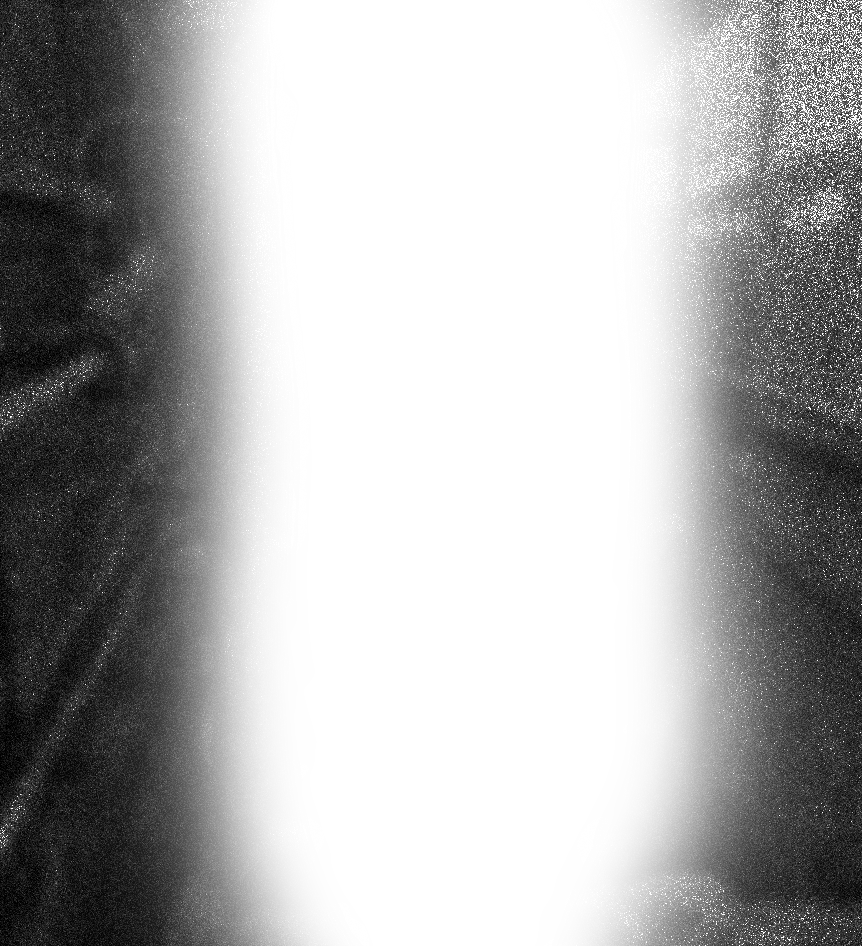
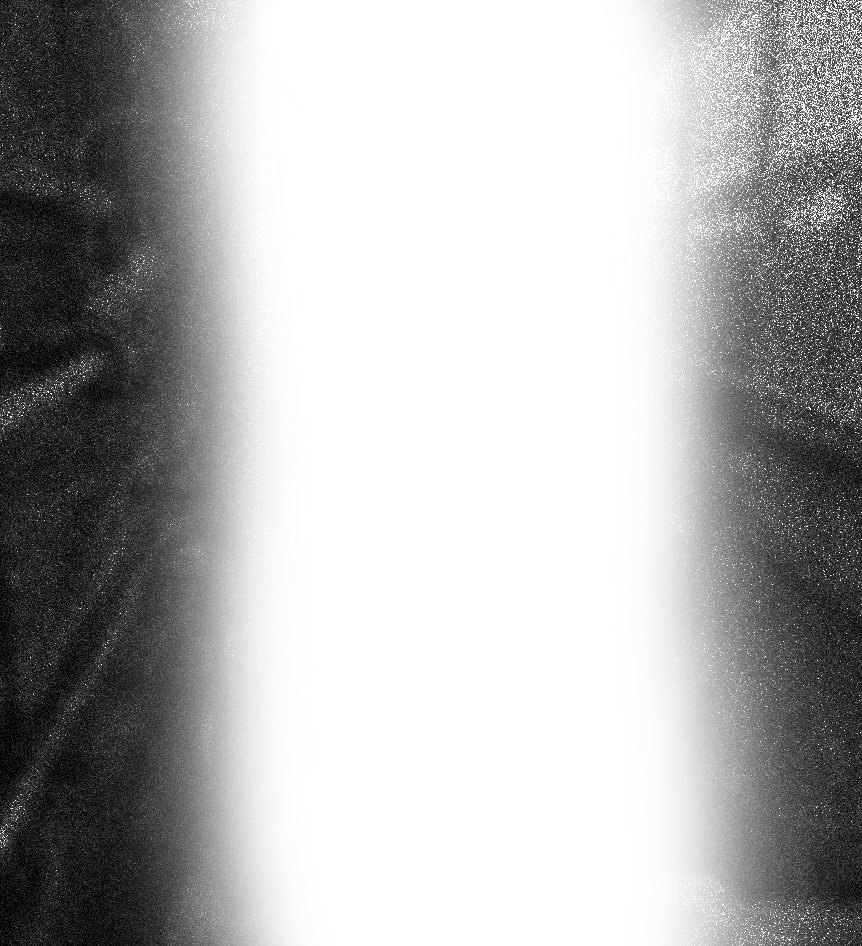
a

Changed region(s): [[0.6937, 0.7664, 0.935, 1.0], [0.2111, 0.9197, 0.3619, 1.0]]

diff --git a/deathdriveDIGI .html b/deathdriveDIGI .html
@@ -26,7 +26,7 @@
             position:absolute; 
             z-index:3; 
             top:12;
-            left:400;
+            left:500;
             }
                 
             #Border {
@@ -63,7 +63,7 @@
             <img id="Border" src="https://github.com/cphars01/cphars01.github.io/blob/main/digi-images/border.png?raw=true" width="610" height="880" /> 
            
 
-            <img id="Pipe" src="https://github.com/cphars01/cphars01.github.io/blob/main/digi-images/pipe-background-blur3.png?raw=true" width="862" height="946" /> 
+            <img id="Pipe" src="https://github.com/cphars01/cphars01.github.io/blob/main/digi-images/pipe-background-blur4.png?raw=true" width="862" height="946" /> 
    
             <iframe id="Video" src="https://streamable.com/e/hfjj4m?autoplay=1&nocontrols=1" width="660" height="912" frameborder="0" allowfullscreen allow="autoplay"></iframe>
                 
